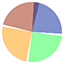
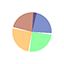
update pacman

diff --git a/static/js/pacman.js b/static/js/pacman.js
@@ -10,13 +10,13 @@ define([], function(){
       vars: [
         {
           name: 'color',
-          placeholder: '#f00',
+          placeholder: '#000',
           type: 'color',
-          'default': '#000',
+          'default': '#f0c741',
           attr: 'color'
         }, {
           name: 'angle',
-          placeholder: '#f00',
+          placeholder: '30',
           type: 'px',
           'default': '30',
           attr: 'angle'
